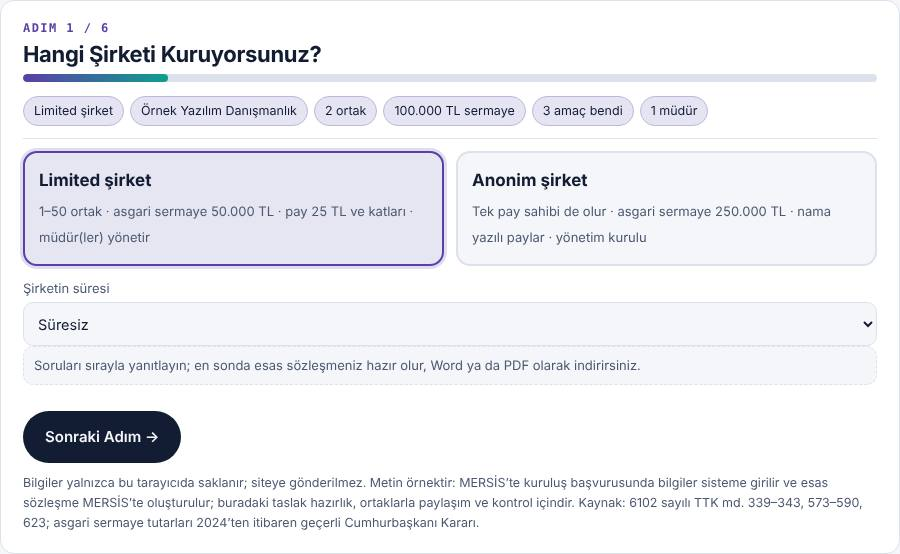
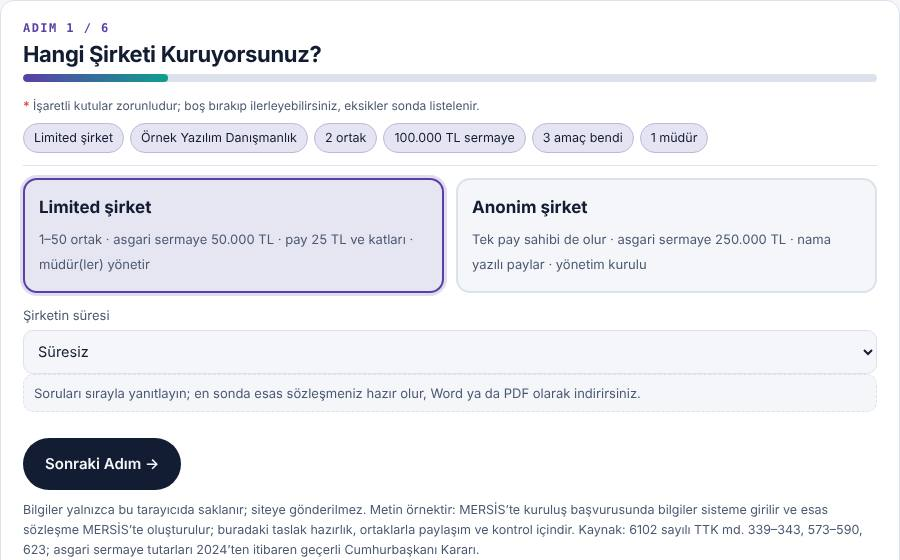
Sihirbazlar: zorunlu kutularda baştan kırmızı yıldız, boş geçilince kırmızı ünlem
Claude-Session: https://claude.ai/code/session_018UFAVAkLcBcEWp4f4jsZc1

Changed region(s): [[0.0, 0.0614, 0.9644, 1.0], [0.5289, 0.5217, 0.9644, 0.5523], [0.9956, 0.9819, 1.0, 1.0]]

diff --git a/site/index.html b/site/index.html
@@ -1201,7 +1201,7 @@ section[data-view],[id^="h-"],[id^="d-"],[id^="x-"],[id^="p-"]{scroll-margin-top
 .bsl[role=button]{cursor:pointer}.bsl[role=button]:hover{filter:brightness(1.08)}
 .es-br{flex-basis:100%;height:0}.es-line>.es-kimf:nth-child(2){flex:0 1 320px!important}
 .es-card{position:relative;margin:16px 0!important;padding:16px 16px 12px!important;border:2px solid #D9D2F0!important;border-left:8px solid #5B3FA8!important;border-radius:16px;background:color-mix(in srgb,#5B3FA8 4%,var(--paper));box-shadow:0 6px 18px -14px rgba(40,20,90,.5)}.es-card.es-c2{border-left-color:#0E9F8E!important;background:color-mix(in srgb,#0E9F8E 5%,var(--paper))}.es-card.es-c2 .es-nol{background:#0E9F8E}.es-nol{width:auto!important;height:auto!important;flex:0 0 100%!important;align-self:flex-start!important;display:inline-flex!important;justify-content:flex-start;background:#5B3FA8;color:#fff;border-radius:8px!important;padding:5px 12px;font-size:13px;font-weight:800;letter-spacing:.08em;max-width:max-content;margin:0 0 4px}
-.es-mas{margin-top:18px;padding:16px 18px;border:2px solid color-mix(in srgb,var(--stamp) 35%,transparent);border-radius:16px;background:color-mix(in srgb,var(--stamp) 4%,transparent)}.es-mh{margin:0 0 10px;font-size:19px}.es-ml{display:flex;flex-wrap:wrap;gap:8px;align-items:center;font-weight:600;margin:0 0 10px;font-size:14px}.es-ml select{padding:6px 10px;border-radius:10px;border:1px solid var(--rule);font:inherit;background:var(--paper,#fff);color:inherit}.es-mas .ss-tb{width:100%}.ek-adr{grid-column:1/-1;border:1px solid var(--rule);border-radius:12px;padding:10px 12px 8px;margin:6px 0 2px;min-width:0}.ek-adr legend{font-weight:700;font-size:13px;padding:0 6px;color:var(--ink-2)}.ek-ag{display:grid;grid-template-columns:repeat(3,minmax(0,1fr));gap:8px 10px;align-items:end}.ek-ag .fb-f{margin:0;min-width:0}.ek-ag .ad-ek{grid-column:1/-1}.ek-ag input,.ek-ag select{width:100%;box-sizing:border-box}.ek-aprev{margin:8px 2px 2px;font-size:13px;color:var(--ink-2)}.ek-aprev b{color:var(--ink)}@media(max-width:620px){.ek-ag{grid-template-columns:repeat(2,minmax(0,1fr))}}.es-eks{margin:14px 0 4px;padding:14px 16px;border:2px solid #E5484D;border-radius:14px;background:color-mix(in srgb,#E5484D 7%,transparent)}.es-eks>b{color:#C93B40;font-size:16px}.es-eks ul{margin:8px 0 6px;padding:0;list-style:none;display:grid;gap:8px}.es-eks li{display:flex;flex-wrap:wrap;align-items:center;justify-content:space-between;gap:8px;font-weight:600}.es-eks small{color:var(--ink-2)}.es-fix{border:0;background:#E5484D;color:#fff;font:inherit;font-weight:800;font-size:13px;border-radius:999px;padding:6px 12px;cursor:pointer}.es-fix:hover{filter:brightness(1.08)}.es-steps [data-st].eks i{background:#E5484D!important;color:#fff!important;position:relative}.es-steps [data-st].eks i::after{content:"!";position:absolute;top:-6px;right:-6px;width:14px;height:14px;border-radius:50%;background:#fff;color:#E5484D;font-size:11px;line-height:14px;text-align:center;font-weight:900;box-shadow:0 0 0 2px #E5484D}@media print{.pr-compact h2{font-size:15pt!important}.pr-compact .es-mh{display:none}.pr-compact .ss-tb td,.pr-compact .ss-tb th{padding:3px 8px!important;font-size:9.5pt!important;line-height:1.3!important}.pr-compact .ss-gh td{padding-top:7px!important;padding-bottom:2px!important}.pr-compact .ss-kb{font-size:9.5pt!important}.pr-compact .ss-top td{padding:5px 8px!important;font-size:11pt!important}.pr-compact p,.pr-compact .pnote{font-size:8.5pt!important;margin:5px 0!important;line-height:1.35!important}.pr-compact ol,.pr-compact ul{margin:4px 0!important}.pr-compact li{font-size:9pt!important}}.ss-fb{display:inline-flex;align-items:center;gap:6px;font-weight:600;font-size:13px;margin-right:4px}.es-mfb{font-weight:600}.es-mfb input,.ss-fb input{width:18px;height:18px;accent-color:var(--stamp)}.es-steps .es-res i{background:#0E9F8E!important;color:#fff!important}.es-steps .es-res.on{background:#0E9F8E!important;color:#fff!important;border-color:#0E9F8E!important}.es-steps .es-res.on i{background:#fff!important;color:#0E9F8E!important}.req-miss>span::after,h4.req-miss::after{content:"!";display:inline-grid;place-items:center;width:16px;height:16px;border-radius:50%;background:#E5484D;color:#fff;font-size:11px;font-weight:900;margin-left:6px;vertical-align:1px;line-height:16px;text-align:center}.req-miss>span{color:#C93B40!important}.req-miss input,.req-miss select,.req-miss textarea{border-color:#E5484D!important;box-shadow:0 0 0 1px rgba(229,72,77,.25)!important}h4.req-miss{color:#C93B40}.es-eks li>span{flex:1 1 260px;min-width:0}.es-eks li .es-fix{flex:none;position:relative;z-index:1}@media(max-width:620px){.es-eks li{flex-direction:column;align-items:flex-start}.es-eks li>span{flex:none}}.by-fm{margin:10px 0 4px;padding:10px 12px;border-radius:12px;background:color-mix(in srgb,#2F4FA8 6%,var(--paper));border:1px solid color-mix(in srgb,#2F4FA8 25%,var(--rule))}.by-fm>b{display:block;font-size:13px;margin-bottom:6px}.by-fm>div{display:flex;flex-wrap:wrap;gap:6px}.by-fm a{display:inline-flex;align-items:center;gap:6px;padding:6px 10px;border-radius:10px;font-size:13.5px;text-decoration:none;font-weight:600}.by-gib{background:var(--paper);border:1px solid var(--rule);color:var(--ink)}.by-gib i{font-style:normal;font-size:11px;font-weight:700;color:#fff;background:#217346;border-radius:6px;padding:2px 6px}.by-arac{background:#5B3FA8;color:#fff!important}.by-ft td:last-child{white-space:nowrap}
+.es-mas{margin-top:18px;padding:16px 18px;border:2px solid color-mix(in srgb,var(--stamp) 35%,transparent);border-radius:16px;background:color-mix(in srgb,var(--stamp) 4%,transparent)}.es-mh{margin:0 0 10px;font-size:19px}.es-ml{display:flex;flex-wrap:wrap;gap:8px;align-items:center;font-weight:600;margin:0 0 10px;font-size:14px}.es-ml select{padding:6px 10px;border-radius:10px;border:1px solid var(--rule);font:inherit;background:var(--paper,#fff);color:inherit}.es-mas .ss-tb{width:100%}.ek-adr{grid-column:1/-1;border:1px solid var(--rule);border-radius:12px;padding:10px 12px 8px;margin:6px 0 2px;min-width:0}.ek-adr legend{font-weight:700;font-size:13px;padding:0 6px;color:var(--ink-2)}.ek-ag{display:grid;grid-template-columns:repeat(3,minmax(0,1fr));gap:8px 10px;align-items:end}.ek-ag .fb-f{margin:0;min-width:0}.ek-ag .ad-ek{grid-column:1/-1}.ek-ag input,.ek-ag select{width:100%;box-sizing:border-box}.ek-aprev{margin:8px 2px 2px;font-size:13px;color:var(--ink-2)}.ek-aprev b{color:var(--ink)}@media(max-width:620px){.ek-ag{grid-template-columns:repeat(2,minmax(0,1fr))}}.es-eks{margin:14px 0 4px;padding:14px 16px;border:2px solid #E5484D;border-radius:14px;background:color-mix(in srgb,#E5484D 7%,transparent)}.es-eks>b{color:#C93B40;font-size:16px}.es-eks ul{margin:8px 0 6px;padding:0;list-style:none;display:grid;gap:8px}.es-eks li{display:flex;flex-wrap:wrap;align-items:center;justify-content:space-between;gap:8px;font-weight:600}.es-eks small{color:var(--ink-2)}.es-fix{border:0;background:#E5484D;color:#fff;font:inherit;font-weight:800;font-size:13px;border-radius:999px;padding:6px 12px;cursor:pointer}.es-fix:hover{filter:brightness(1.08)}.es-steps [data-st].eks i{background:#E5484D!important;color:#fff!important;position:relative}.es-steps [data-st].eks i::after{content:"!";position:absolute;top:-6px;right:-6px;width:14px;height:14px;border-radius:50%;background:#fff;color:#E5484D;font-size:11px;line-height:14px;text-align:center;font-weight:900;box-shadow:0 0 0 2px #E5484D}@media print{.pr-compact h2{font-size:15pt!important}.pr-compact .es-mh{display:none}.pr-compact .ss-tb td,.pr-compact .ss-tb th{padding:3px 8px!important;font-size:9.5pt!important;line-height:1.3!important}.pr-compact .ss-gh td{padding-top:7px!important;padding-bottom:2px!important}.pr-compact .ss-kb{font-size:9.5pt!important}.pr-compact .ss-top td{padding:5px 8px!important;font-size:11pt!important}.pr-compact p,.pr-compact .pnote{font-size:8.5pt!important;margin:5px 0!important;line-height:1.35!important}.pr-compact ol,.pr-compact ul{margin:4px 0!important}.pr-compact li{font-size:9pt!important}}.ss-fb{display:inline-flex;align-items:center;gap:6px;font-weight:600;font-size:13px;margin-right:4px}.es-mfb{font-weight:600}.es-mfb input,.ss-fb input{width:18px;height:18px;accent-color:var(--stamp)}.es-steps .es-res i{background:#0E9F8E!important;color:#fff!important}.es-steps .es-res.on{background:#0E9F8E!important;color:#fff!important;border-color:#0E9F8E!important}.es-steps .es-res.on i{background:#fff!important;color:#0E9F8E!important}.req-miss>span::after,h4.req-miss::after{content:"!";display:inline-grid;place-items:center;width:16px;height:16px;border-radius:50%;background:#E5484D;color:#fff;font-size:11px;font-weight:900;margin-left:6px;vertical-align:1px;line-height:16px;text-align:center}.req-miss>span{color:#C93B40!important}.req-miss input,.req-miss select,.req-miss textarea{border-color:#E5484D!important;box-shadow:0 0 0 1px rgba(229,72,77,.25)!important}h4.req-miss{color:#C93B40}.es-eks li>span{flex:1 1 260px;min-width:0}.es-eks li .es-fix{flex:none;position:relative;z-index:1}@media(max-width:620px){.es-eks li{flex-direction:column;align-items:flex-start}.es-eks li>span{flex:none}}.req-star>span::after{content:"*";color:#E5484D;font-weight:900;margin-left:3px}.req-star.req-or>span::after{content:"*";}.req-miss>span::after{content:"!"!important;margin-left:6px;color:#fff!important}.ek-req-not{font-size:12px;color:var(--ink-2);margin:0 0 8px}.ek-req-not b{color:#E5484D}.by-fm{margin:10px 0 4px;padding:10px 12px;border-radius:12px;background:color-mix(in srgb,#2F4FA8 6%,var(--paper));border:1px solid color-mix(in srgb,#2F4FA8 25%,var(--rule))}.by-fm>b{display:block;font-size:13px;margin-bottom:6px}.by-fm>div{display:flex;flex-wrap:wrap;gap:6px}.by-fm a{display:inline-flex;align-items:center;gap:6px;padding:6px 10px;border-radius:10px;font-size:13.5px;text-decoration:none;font-weight:600}.by-gib{background:var(--paper);border:1px solid var(--rule);color:var(--ink)}.by-gib i{font-style:normal;font-size:11px;font-weight:700;color:#fff;background:#217346;border-radius:6px;padding:2px 6px}.by-arac{background:#5B3FA8;color:#fff!important}.by-ft td:last-child{white-space:nowrap}
 .or-tb td{vertical-align:top;font-size:14px}.or-tb td:first-child{white-space:nowrap}.or-tb th{text-align:left}.or-vg{margin:12px 0 4px;padding:14px 16px;border-radius:14px;background:color-mix(in srgb,#B45309 8%,var(--paper));border:1px solid color-mix(in srgb,#B45309 30%,var(--rule))}.or-vg h4{margin:0 0 8px;font-size:17px}.or-vg ul{margin:0 0 8px 18px;padding:0;font-size:14.5px;line-height:1.55}.or-vg li{margin:0 0 6px}.or-vg a{font-weight:700;font-size:14px}
 .ppl{display:grid;gap:8px}.ppl-r{display:grid;grid-template-columns:minmax(0,1fr) minmax(0,1fr) 36px;gap:6px;align-items:center;padding:8px;border:1px solid var(--rule);border-radius:12px}.ppl-r input[data-c="2"]{grid-column:1/3}.cmb-t{margin:6px 2px 0;font-size:13px;line-height:1.45;color:var(--ink-2)}.ppl-r input,.ppl-r select{width:100%;min-width:0;padding:9px 10px;border:1px solid var(--rule);border-radius:10px;font:inherit;font-size:14px;background:var(--paper);color:var(--ink)}.ppl-x{grid-row:1;grid-column:3;border:1px solid var(--rule);background:transparent;border-radius:9px;height:36px;cursor:pointer;color:var(--ink-2)}.ppl-x:hover{color:#c0392b;border-color:#c0392b}.ppl-add{display:flex;flex-wrap:wrap;gap:6px;margin-top:2px}.cmb-m{margin-top:6px}
 @media (min-width:1001px){#docs .studio{grid-template-columns:minmax(330px,.62fr) minmax(0,1.38fr);gap:20px}#docs .doc-page{padding:36px 38px}}
@@ -5277,7 +5277,9 @@ window.ekAdrIn=function(el,st){var q=(el.dataset.apath||'').split('|'),obj=q[0]?
 })();
 window.ekFirmaTb=function(rows){rows=rows.filter(function(r){return r[1];});if(!rows.length)return '';return '<table class="pr-firm" style="width:100%;border-collapse:collapse;margin:2px 0 10px;font-size:10pt">'+rows.map(function(r){return '<tr><td style="padding:3px 8px;border:1px solid #ddd;background:#f4f2fb;font-weight:700;width:30%">'+esc(r[0])+'</td><td style="padding:3px 8px;border:1px solid #ddd">'+esc(r[1])+'</td></tr>';}).join('')+'</table>';};
 /* Eksik zorunlu kutuların etiketine küçük kırmızı ünlem */
-window.ekReqMark=function(root,sels,show,extra){if(!root)return;[].forEach.call(root.querySelectorAll('.req-miss'),function(x){x.classList.remove('req-miss');});if(!show)return;
+window.ekReqMark=function(root,sels,show,extra){if(!root)return;[].forEach.call(root.querySelectorAll('.req-miss'),function(x){x.classList.remove('req-miss');});
+  sels.forEach(function(sel){[].forEach.call(root.querySelectorAll(sel),function(el){var w=el.closest('.fb-f');if(w)w.classList.add('req-star');});});[].forEach.call(root.querySelectorAll('.ek-ag [data-ap=cad],.ek-ag [data-ap=sok]'),function(el){var w=el.closest('.fb-f');if(w)w.classList.add('req-star','req-or');});
+  if(!show)return;
   sels.forEach(function(sel){[].forEach.call(root.querySelectorAll(sel),function(el){if(el.disabled&&el.tagName!=='SELECT')return;if(!String(el.value||'').trim()){var w=el.closest('.fb-f')||el.parentNode;if(w)w.classList.add('req-miss');}});});
   /* cadde ve sokak ikisi de boşsa ikisini işaretle */
   [].forEach.call(root.querySelectorAll('.ek-ag'),function(g){var c=g.querySelector('[data-ap=cad]'),s=g.querySelector('[data-ap=sok]');if(c&&s&&!c.value.trim()&&!s.value.trim()){[c,s].forEach(function(x){var w=x.closest('.fb-f');if(w)w.classList.add('req-miss');});}});
@@ -5422,7 +5424,7 @@ window.ekYuzMsg=function(K){var Y=K.map(function(k){return num(k.yuz);}),any=Y.s
  function draw(){var f=document.getElementById('es-step');if(!f)return;
    var DNx=bitti&&step===STEPS.length-1;seenMax=Math.max(seenMax,DNx?STEPS.length:step);$$('.es-steps button[data-st]',R).forEach(function(b,i){b.classList.toggle('on',i===step&&!DNx);b.classList.toggle('done',i<step||DNx);});var rb=$('.es-steps [data-res]',R);if(rb)rb.classList.toggle('on',DNx);
    if(step!==STEPS.length-1)bitti=false;var DN=bitti&&step===STEPS.length-1;R.classList.toggle('es-done',DN);
-   var S=sermaye(),Y=yonL(),A=amacL().length;f.innerHTML=DN?readyHtml():'<div class="es-q"><small>Adım '+(step+1)+' / '+STEPS.length+'</small><h3>'+e(QS[step])+'</h3><div class="es-pb"><i style="width:'+Math.round((step+1)/STEPS.length*100)+'%"></i></div></div>'
+   var S=sermaye(),Y=yonL(),A=amacL().length;f.innerHTML=DN?readyHtml():'<div class="es-q"><small>Adım '+(step+1)+' / '+STEPS.length+'</small><h3>'+e(QS[step])+'</h3><div class="es-pb"><i style="width:'+Math.round((step+1)/STEPS.length*100)+'%"></i></div></div><p class="ek-req-not"><b>*</b> İşaretli kutular zorunludur; boş bırakıp ilerleyebilirsiniz, eksikler sonda listelenir.</p>'
      +'<div class="es-oz" aria-label="Özet"><span>'+(LTD()?'Limited şirket':'Anonim şirket')+'</span><span class="'+(st.unvan?'':'no')+'">'+e(st.unvan?st.unvan:'Unvan yok')+'</span><span class="'+(kurL().length?'':'no')+'">'+kurL().length+' ortak</span><span class="'+(S?'':'no')+'">'+(S?mny(S)+' TL sermaye':'Sermaye yok')+'</span><span class="'+(A?'':'no')+'">'+A+' amaç bendi</span><span class="'+(Y.length?'':'no')+'">'+Y.length+(LTD()?' müdür':' YK üyesi')+'</span></div>'+stepHtml();
    $('#es-prev',R).hidden=step===0&&!DN;if(step===0&&!DN)$('#es-prev',R).style.setProperty('display','none','important');else $('#es-prev',R).style.removeProperty('display');$('#es-prev',R).textContent=DN?'✎ Bilgileri düzenle':'← Önceki adım';$('#es-next',R).hidden=DN;$('#es-next',R).textContent=step===STEPS.length-1?'✓ Esas sözleşmeyi oluştur':'Sonraki adım →';
    prev();}
@@ -5616,7 +5618,7 @@ window.ekYuzMsg=function(K){var Y=K.map(function(k){return num(k.yuz);}),any=Y.s
    +'<div class="es-links"><a href="https://dijital.gib.gov.tr" target="_blank" rel="noopener">Dijital Vergi Dairesi (mükellefiyet) ↗</a>'+(IS()?'<a href="https://ekap.kik.gov.tr" target="_blank" rel="noopener">EKAP ↗</a>':'')+'</div></div>';}
  function draw(){var f=document.getElementById('or-step');if(!f)return;if(step!==STEPS.length-1)bitti=false;var DN=bitti&&step===STEPS.length-1;R.classList.toggle('es-done',DN);
    var DNx=bitti&&step===STEPS.length-1;seenMax=Math.max(seenMax,DNx?STEPS.length:step);$$('.es-steps button[data-st]',R).forEach(function(b,i){b.classList.toggle('on',i===step&&!DNx);b.classList.toggle('done',i<step||DNx);});var rb=$('.es-steps [data-res]',R);if(rb)rb.classList.toggle('on',DNx);
-   f.innerHTML=DN?readyHtml():'<div class="es-q"><small>Adım '+(step+1)+' / '+STEPS.length+'</small><h3>'+e(QS[step])+'</h3><div class="es-pb"><i style="width:'+Math.round((step+1)/STEPS.length*100)+'%"></i></div></div>'+stepHtml();
+   f.innerHTML=DN?readyHtml():'<div class="es-q"><small>Adım '+(step+1)+' / '+STEPS.length+'</small><h3>'+e(QS[step])+'</h3><div class="es-pb"><i style="width:'+Math.round((step+1)/STEPS.length*100)+'%"></i></div></div><p class="ek-req-not"><b>*</b> İşaretli kutular zorunludur; boş bırakıp ilerleyebilirsiniz, eksikler sonda listelenir.</p>'+stepHtml();
    var pv=$('#or-prev',R);pv.textContent=DN?'✎ Bilgileri düzenle':'← Önceki adım';if(step===0&&!DN)pv.style.setProperty('display','none','important');else pv.style.removeProperty('display');
    $('#or-next',R).hidden=DN;$('#or-next',R).textContent=step===STEPS.length-1?'✓ Sözleşmeyi oluştur':'Sonraki adım →';prev();}
  function blk(n){var B=[];if(n===1){var L=kurL();var t=ytop();if(Math.abs(t-100)>0.01&&(t>100||st.kur.every(function(k){return isFinite(num(k.yuz));})))B.push('Ortakların payları toplamı %'+NI(t)+'; tam %100 olmalı.');st.kur.forEach(function(k,i){var m=ekKimErr(k)||ekDupMsg(st.kur,i);if(m)B.push((k.ad||((i+1)+'. ortak'))+': '+m);});}return B;}
@@ -5685,7 +5687,7 @@ window.ekYuzMsg=function(K){var Y=K.map(function(k){return num(k.yuz);}),any=Y.s
   gecbeyan:{t:'Beyanname vermeme cezası nasıl hesaplanır?',s:[['ceza','1. Beyannameyi ve tarihleri seçin','Beyanname türünü, son günü ve vereceğiniz günü girin.'],['steps','2. Soruları yanıtlayın','Pişmanlıkla mı veriyorsunuz, tahakkuk ne kadar gibi kısa sorular gelir.'],['bitti','3. Toplamı görün','Vergi, gecikme zammı, usulsüzlük cezası ve SGK idari para cezası tek toplamda gösterilir; birden fazla beyanname ekleyebilirsiniz.']]},
   arackdv:{t:'Araç KDV oranı nasıl bulunur?',s:[['arac','1. Aracı seçin','Binek, kamyonet, iş makinesi gibi aracın türünü seçin.'],['steps','2. Soruları yanıtlayın','İkinci el mi, satıcı galeri mi gibi sorular gelir.'],['bitti','3. Sonuç','KDV oranı, dayanağı, alıcının indirimi ve muhasebe kaydı açılır.']]}
  };
- var SH={esas:['esas-0','esas-0','esas-1','esas-2','esas-2',null,'esas-3','esas-4','esas-6',null],ortaklik:['or-0','or-0','or-1',null,'or-2','or-4',null],sirket:['sk-0','sk-1','sk-2','sk-3',null],gecbeyan:['gb-0','gb-1',null],arackdv:['ak-0','ak-1',null]},VER='202611121122';
+ var SH={esas:['esas-0','esas-0','esas-1','esas-2','esas-2',null,'esas-3','esas-4','esas-6',null],ortaklik:['or-0','or-0','or-1',null,'or-2','or-4',null],sirket:['sk-0','sk-1','sk-2','sk-3',null],gecbeyan:['gb-0','gb-1',null],arackdv:['ak-0','ak-1',null]},VER='202611121132';
  var MAP={sirket:'sirket',amackonu:'esas',ortaklik:'ortaklik',gecbeyan:'gecbeyan',arackdv:'arackdv'};
  function open(key){var h=H[key];if(!h)return;var m=document.getElementById('hlp-modal');if(!m){m=document.createElement('div');m.id='hlp-modal';m.setAttribute('role','dialog');m.setAttribute('aria-modal','true');document.body.appendChild(m);
      m.addEventListener('click',function(e){if(e.target===m||e.target.closest('[data-hx]')){m.hidden=true;document.documentElement.style.overflow='';}});document.addEventListener('keydown',function(e){if(e.key==='Escape'&&!m.hidden){m.hidden=true;document.documentElement.style.overflow='';}});}
